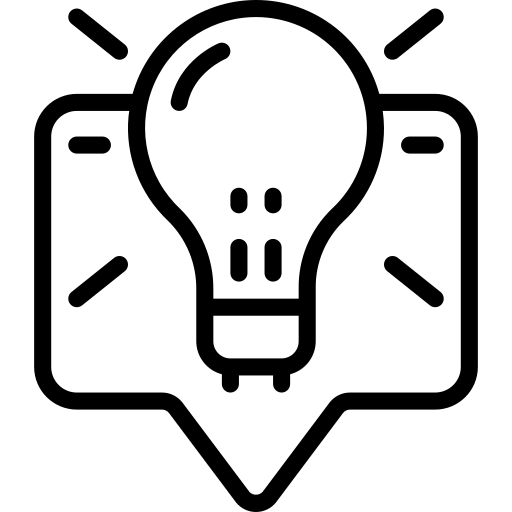
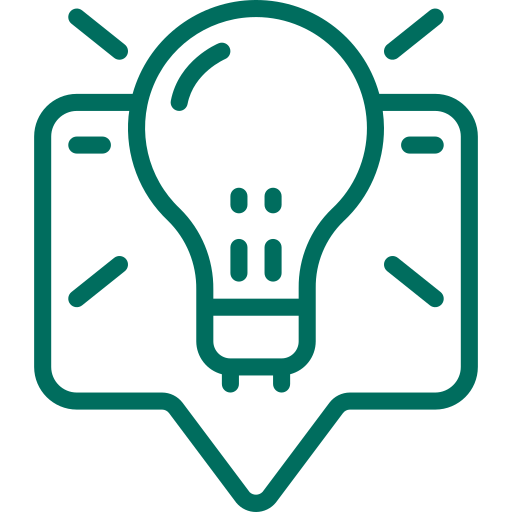
changed images color

diff --git a/index.html b/index.html
@@ -44,19 +44,19 @@
       <section id="detail_section">
 
         <div class="detail">
-          <img src="img/write.png" alt="Paper and pencil" >
+          <img src="img/write.png" alt="Paper and pencil">
           <p class="img_attr">Image by: <a href="https://www.flaticon.com/authors/smashicons" title="Smashicons">Smashicons</a></p>
           <p class="detail_p">Create poems by playing The Poetry Game</p>
         </div>
 
         <div class="detail">
-          <img src="img/phone.png" alt="Smartphone.">
+          <img src="img/phone.png" alt="Smartphone">
           <p class="img_attr">Image by: <a href="https://www.flaticon.com/authors/prettycons" title="prettycons">prettycons</a></p>
           <p class="detail_p">Find things we can improve</p>
         </div>
 
         <div class="detail">
-          <img src="img/idea.png" alt="speech bubble with lightbulb inside">
+          <img src="img/idea.png" alt="Speech bubble with lightbulb inside">
           <p class="img_attr" >Image by: <a href="https://www.flaticon.com/authors/smashicons" title="Smashicons">Smashicons</a></p>
           <p class="detail_p">Share your ideas with us!</p>
         </div>
